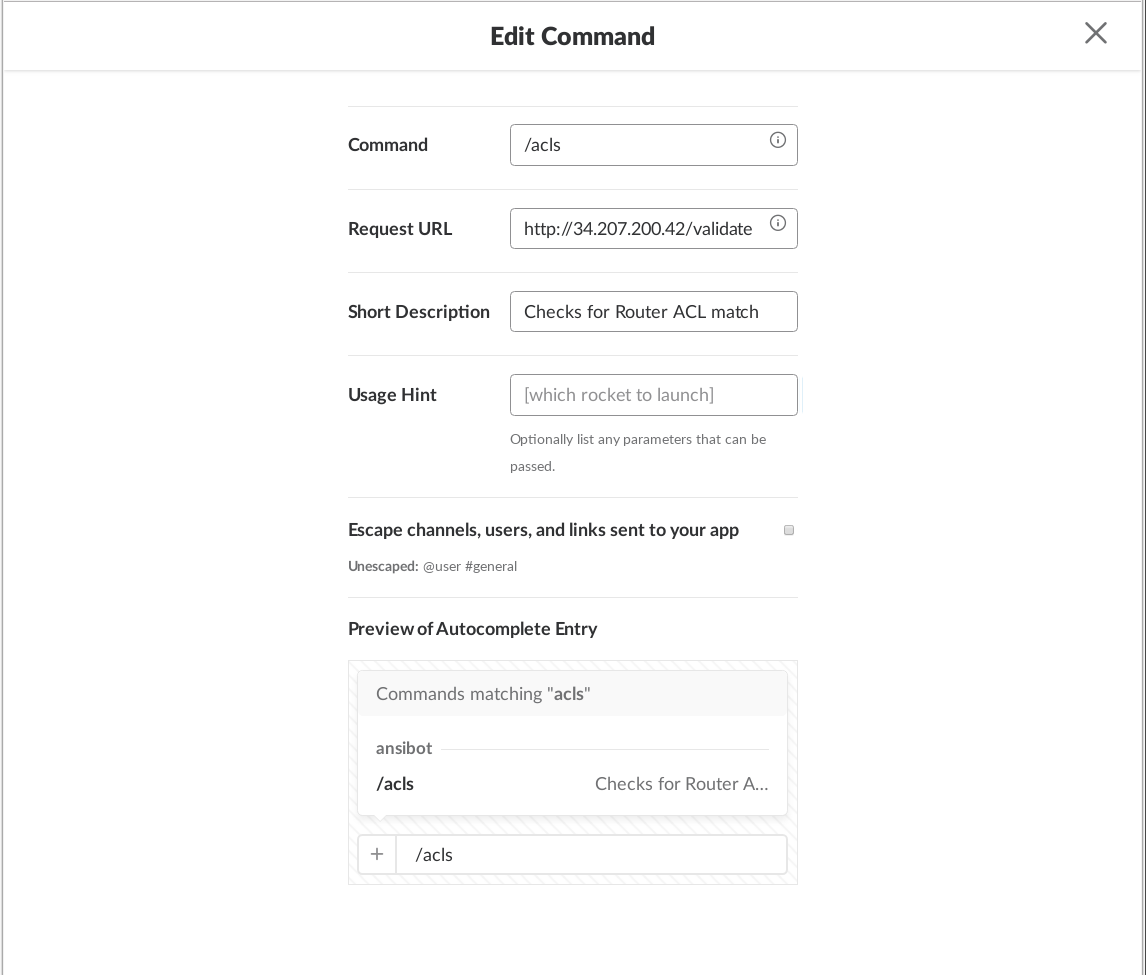
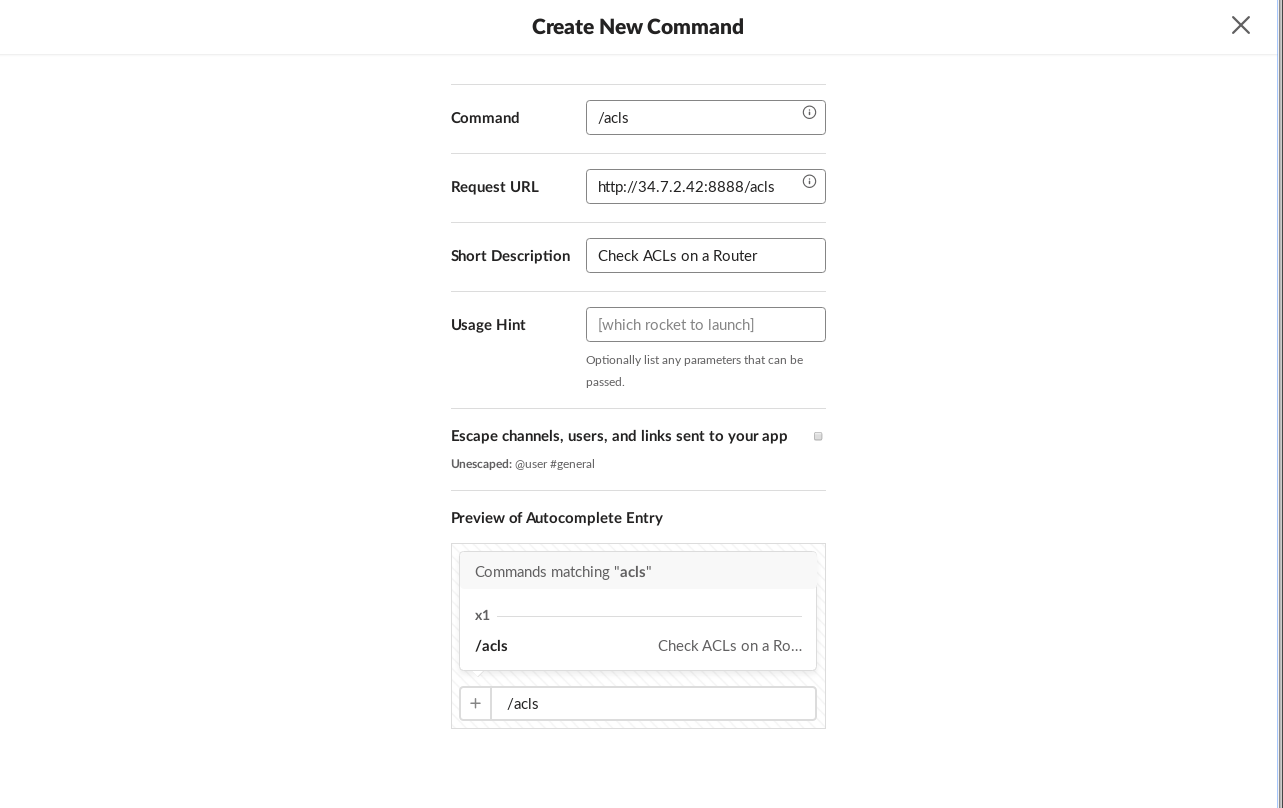
Updated readme

diff --git a/demos/chatops/README.md b/demos/chatops/README.md
@@ -58,7 +58,7 @@ Give the app a meaningful name and add it to the slack team/workspace you have a
 3. On clicking create you will be presented with the options
 ![](./images/create_slashcmd3.png)
 
-Again, use a meaningful command that makes sense to you. The "Request URL" is the application to which slack will route the command. For this demo, our app will be configured to listen on port `8888`. So enter the request url with the public IP address or DNS name of your tower instance that was provisioned as per pre-requisite 2. For example: **http://34.207.200.42:8888/acl_checker"** or **http://student11.mydemo.rhdemo.io:8888/validate_acls**
+Use a meaningful command that makes sense to you. The "Request URL" is the application URI endpoint, to which slack will route the command. For this demo, our app will be configured to listen on port `8888`. So enter the request url with the public IP address or DNS name of your tower instance that was provisioned as per pre-requisite 2. For example: **http://34.207.200.42:8888/acls"** or **http://student11.mydemo.rhdemo.io:8888/acls**
 
 >Note 1: The app has been written to listen on port 8888 so it is important to make sure that this step is configured correctly with the right port.
 
